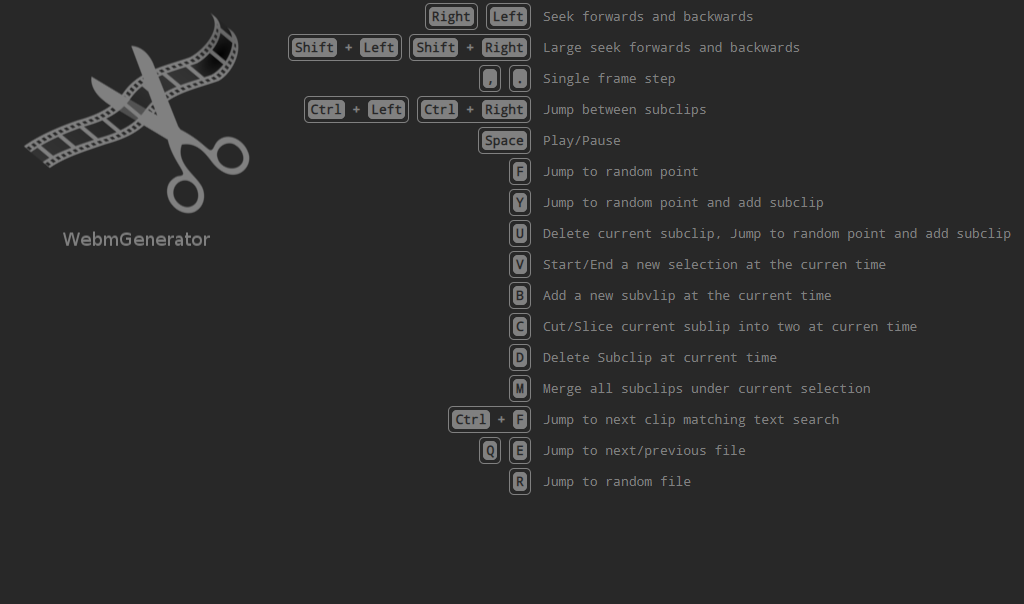
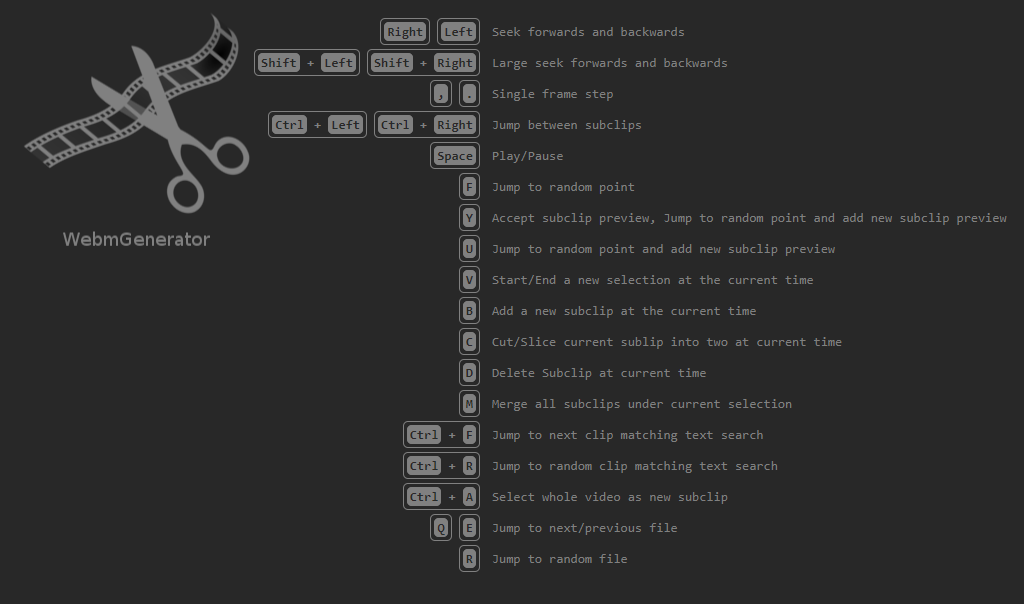
update help text and template

Changed region(s): [[0.25, 0.0, 1.0, 0.9536]]

diff --git a/resources/helptextTemplate.html b/resources/helptextTemplate.html
@@ -16,7 +16,7 @@
 </head>
 <body>
 <div style="display: flex;">
-	<div style="width: 30%;">
+	<div style="width: 40%;">
 		<table>
 
 			<tbody>
@@ -70,14 +70,14 @@
 					<td class="bold"> 
 						<span class="keycombo"><span class="key">Y</span></span>
 					</td>
-					<td>Jump to random point and add subclip</td>
+					<td>Accept subclip preview, Jump to random point and add new subclip preview</td>
 				</tr>
 
 				<tr>
 					<td class="bold"> 
 						<span class="keycombo"><span class="key">U</span></span>
 					</td>
-					<td>Delete current subclip, Jump to random point and add subclip</td>
+					<td>Jump to random point and add new subclip preview</td>
 				</tr>
 
 				</tr>
@@ -86,21 +86,21 @@
 					<td class="bold"> 
 						<span class="keycombo"><span class="key">V</span></span>
 					</td>
-					<td>Start/End a new selection at the curren time</td>
+					<td>Start/End a new selection at the current time</td>
 				</tr>
 
 				<tr>
 					<td class="bold"> 
 						<span class="keycombo"><span class="key">B</span></span>
 					</td>
-					<td>Add a new subvlip at the current time</td>
+					<td>Add a new subclip at the current time</td>
 				</tr>
 
 				<tr>
 					<td class="bold"> 
 						<span class="keycombo"><span class="key">C</span></span>
 					</td>
-					<td>Cut/Slice current sublip into two at curren time</td>
+					<td>Cut/Slice current sublip into two at current time</td>
 				</tr>
 
 				<tr>
@@ -121,7 +121,21 @@
 					<td class="bold"> 
 						<span class="keycombo"><span class="key">Ctrl</span> + <span class="key">F</span></span> 
 					</td>
-					<td>Jump to next clip matching text search</td>
+					<td>Jump to next file matching text search</td>
+				</tr>
+
+				<tr>
+					<td class="bold"> 
+						<span class="keycombo"><span class="key">Ctrl</span> + <span class="key">R</span></span> 
+					</td>
+					<td>Jump to random file matching text search</td>
+				</tr>
+
+				<tr>
+					<td class="bold"> 
+						<span class="keycombo"><span class="key">Ctrl</span> + <span class="key">A</span></span> 
+					</td>
+					<td>Select whole video as new subclip</td>
 				</tr>
 
 				<tr>
